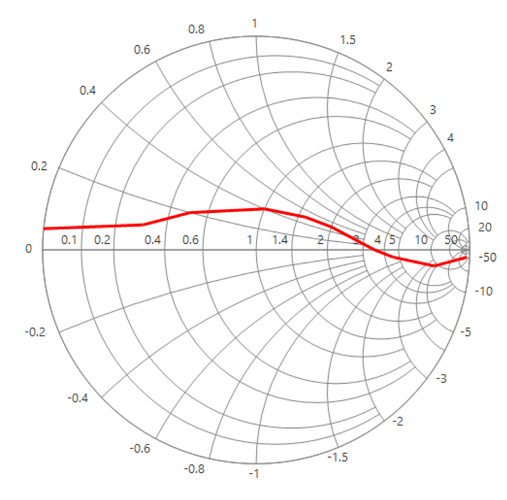
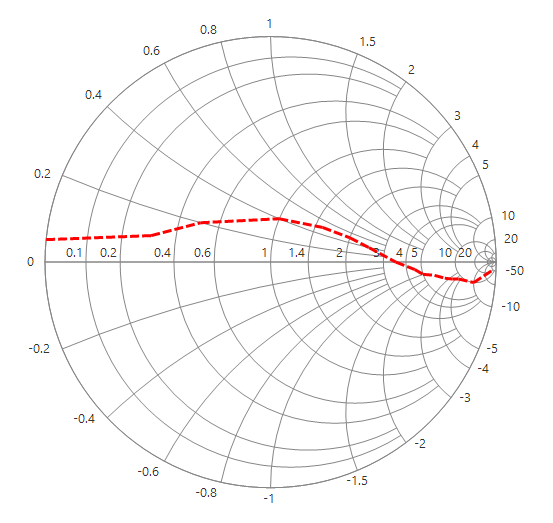
DashStyle changes committed

diff --git a/WindowsForms/Smith-Chart/Series.md b/WindowsForms/Smith-Chart/Series.md
@@ -53,7 +53,7 @@ sfSmithChart1.Series.Add(series)
 
 ## Customizing the line series
 
-The line stroke and width can be customized by using the [`Interior`](https://help.syncfusion.com/cr/cref_files/windowsforms/Syncfusion.SfSmithChart.WinForms~Syncfusion.WinForms.SmithChart.ChartSeries~Interior.html) and [`StrokeWidth`](https://help.syncfusion.com/cr/cref_files/windowsforms/Syncfusion.SfSmithChart.WinForms~Syncfusion.WinForms.SmithChart.LineSeries~StrokeWidth.html) properties of line series.
+The line stroke and width can be customized by using the [`Interior`](https://help.syncfusion.com/cr/cref_files/windowsforms/Syncfusion.SfSmithChart.WinForms~Syncfusion.WinForms.SmithChart.ChartSeries~Interior.html), [`StrokeWidth`](https://help.syncfusion.com/cr/cref_files/windowsforms/Syncfusion.SfSmithChart.WinForms~Syncfusion.WinForms.SmithChart.LineSeries~StrokeWidth.html) and *DashStyle* properties of line series.
 
 {% tabs %}
 
@@ -63,6 +63,8 @@ series.Interior = Color.Red;
 
 series.StrokeWidth = 3;
 
+series.DashStyle = DashStyle.Dash;
+
 {% endhighlight %}
 
 {% highlight vb.net %}
@@ -70,6 +72,8 @@ series.StrokeWidth = 3;
 series.Interior = Color.Red
 
 series.StrokeWidth = 3
+
+series.DashStyle = DashStyle.Dash;
 
 {% endhighlight %}
 
